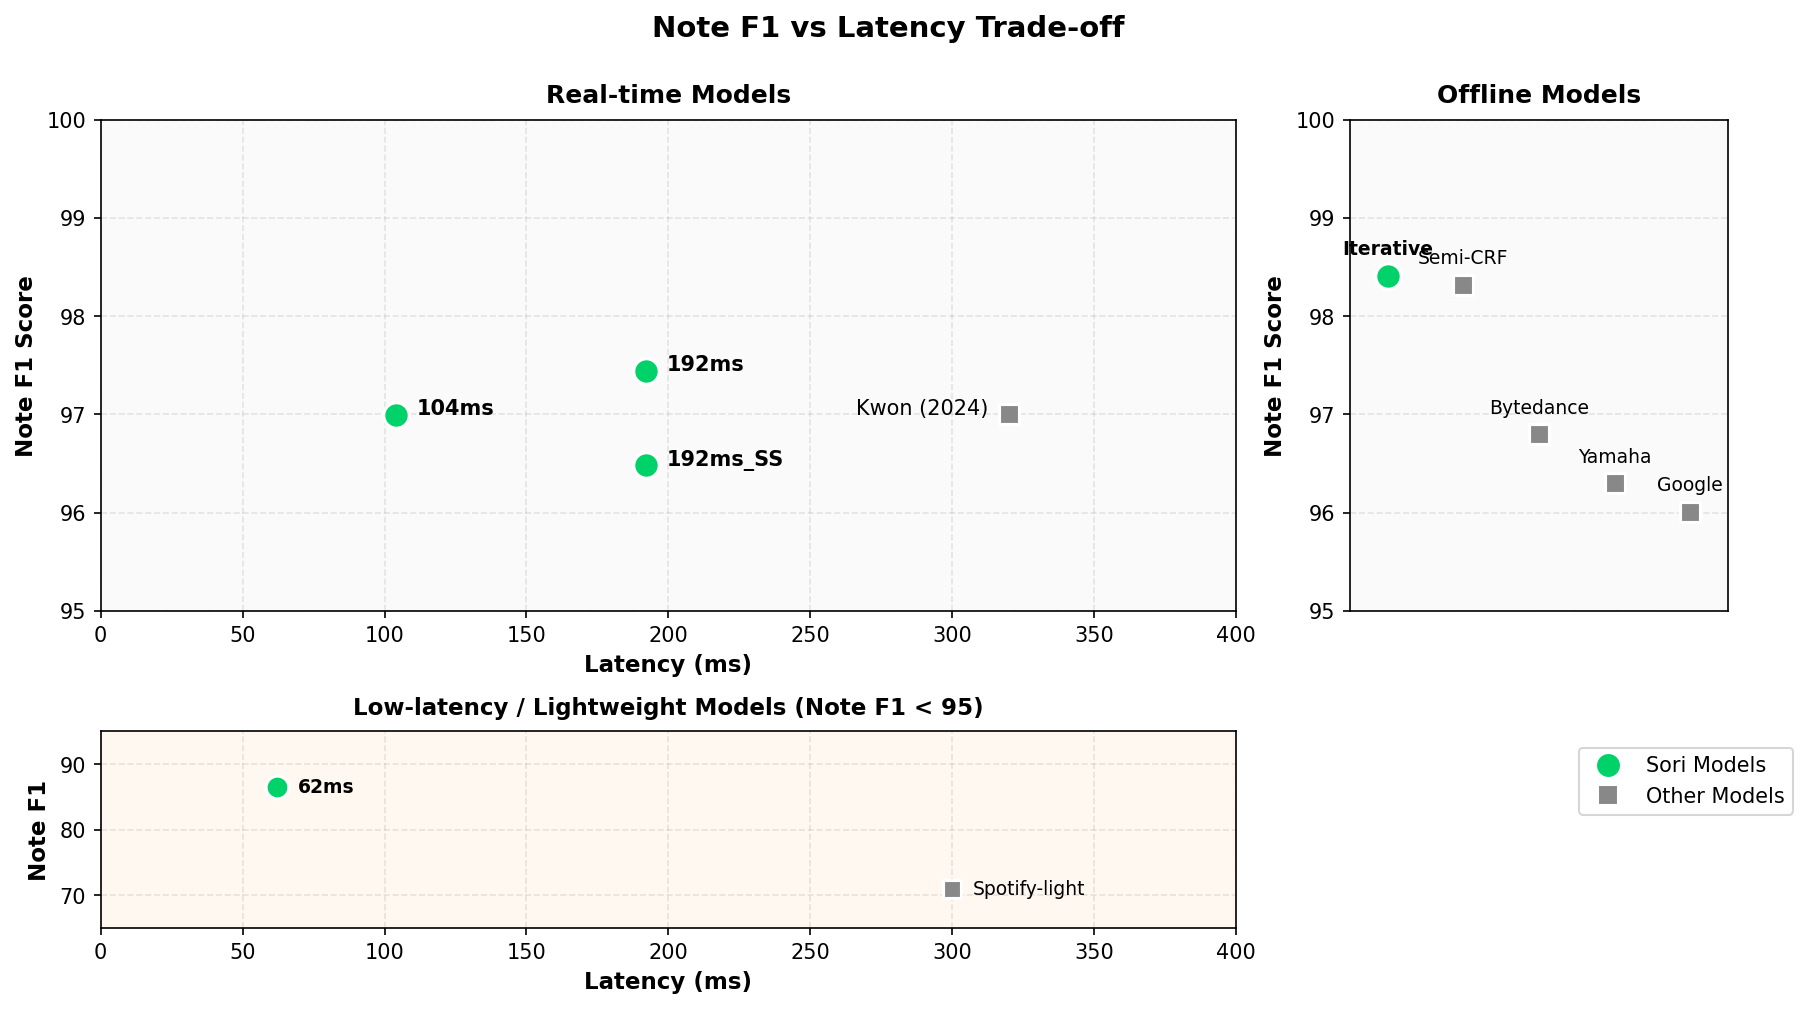
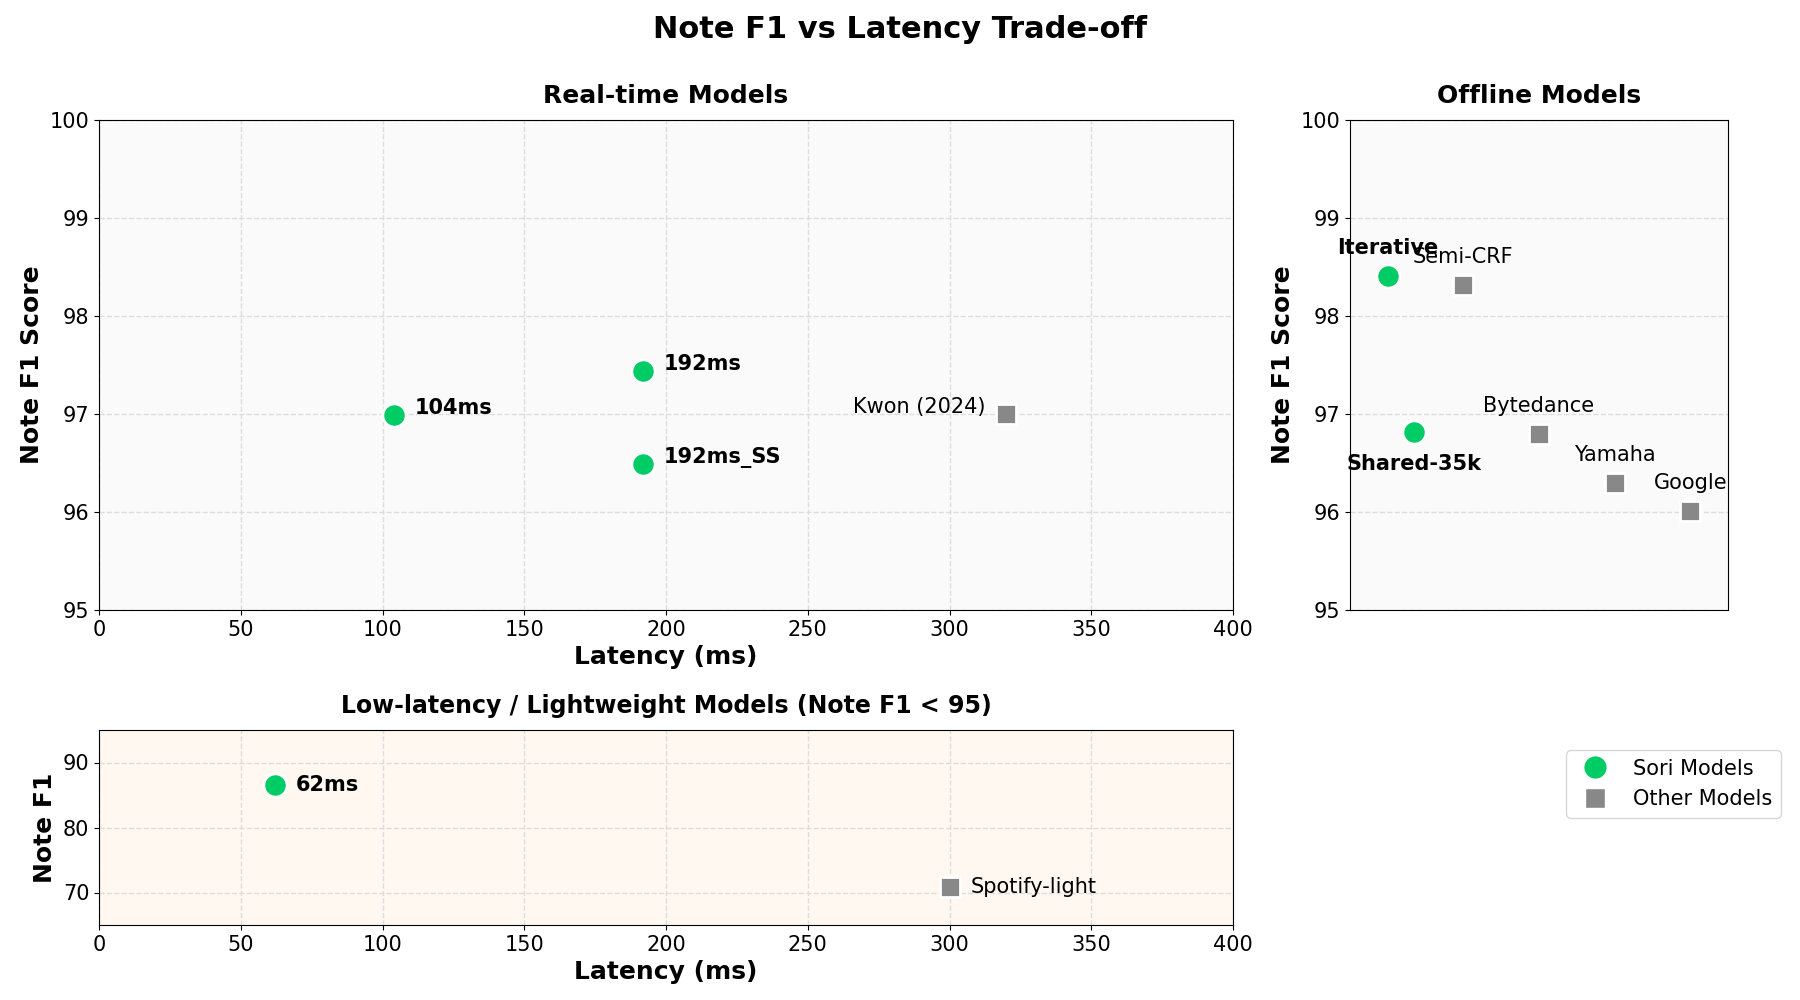
Report resident parameter count and plot evaluated publication path

diff --git a/docs/evaluations/shared-integration-35k.md b/docs/evaluations/shared-integration-35k.md
@@ -25,4 +25,8 @@ Reference events come from saved five-state labels converted to notes (20 ms/fra
[2 lines of base64/hex data omitted]
 
-Active-path parameter count and full-path latency are unverified. The two resident graphs total 2,123,258 parameters, but inference bypasses some modules. Nominal frontend support is 104 ms (centered FFT plus two future frames); this is not a complete note-emission delay and is not plotted as one.
+The actual reconstructed candidate and independently held reference each contain 1,061,629 parameters: **2,123,258 total (2.12M)**. The reference is not registered inside the candidate, so this does not double-count it. This is the resident model size; some registered modules are bypassed during inference.
+
+The reported evaluation combines completed parent/candidate note intervals, admitting candidates only after same-pitch interval-overlap and onset-neighborhood checks. The table and figure therefore place this **evaluated publication path in Offline**, not at a guessed fixed real-time delay. This does not classify every underlying network as offline.
+
+Algorithmic lookahead and device processing time are different quantities. The centered 2,048-sample FFT at 16 kHz alone needs 64 ms of future audio; the future adapter adds two 20 ms frames. This partial 104 ms sum does not include all acoustic temporal layers or the complete-note publication policy and is not used as an end-to-end delay. No device timing benchmark is claimed.

diff --git a/README.md b/README.md
@@ -37,7 +37,7 @@ Quantitative evaluation results on standard datasets.
 | **Sori-Realtime4.8M_192ms** | 97.44 | 95.08 | 72.91 | 71.44 | 4.8M | 192ms |
 | Taegyun Kwon (2024) | 97.00 | N/A | 87.90 | 86.80 | 19.7M | 320ms |
 | **Sori-Realtime4.8M_104ms** | 96.99 | 92.72 | 86.17 | 82.58 | 4.8M | 104ms |
-| **Sori-Shared-Integration-35k** | 96.82 | 87.02 | 85.53 | 76.97 | N/A | Not measured |
+| **Sori-Shared-Integration-35k** | 96.82 | 87.02 | 85.53 | 76.97 | 2.12M* | Offline* |
 | Bytedance | 96.80 | N/A | 84.70 | 83.30 | 20.2M | Offline |
 | **Sori-Realtime4.8M_192ms_SS** | 96.49 | 90.66 | 70.42 | 66.61 | 4.8M | 192ms |
 | Yamaha Mobile-AMT | 96.30 | N/A | 76.80 | 75.53 | 5.9M | 10s |
@@ -84,7 +84,7 @@ Quantitative evaluation results on standard datasets.
 | Note + Offsets | 85.53 | N/A | N/A |
 | Note + Offsets + Velocity | 76.97 | N/A | N/A |
 
-Current research reference, not a product release. Full-path latency is unmeasured, so this model is not plotted. [Evaluation details](docs/evaluations/shared-integration-35k.md).
+Current research reference, not a product release. *Parameters count both resident graphs; the reported evaluation combines completed note intervals offline. [Evaluation details](docs/evaluations/shared-integration-35k.md).
 
 #### Sori-Realtime4.8M_192ms_SS
 
